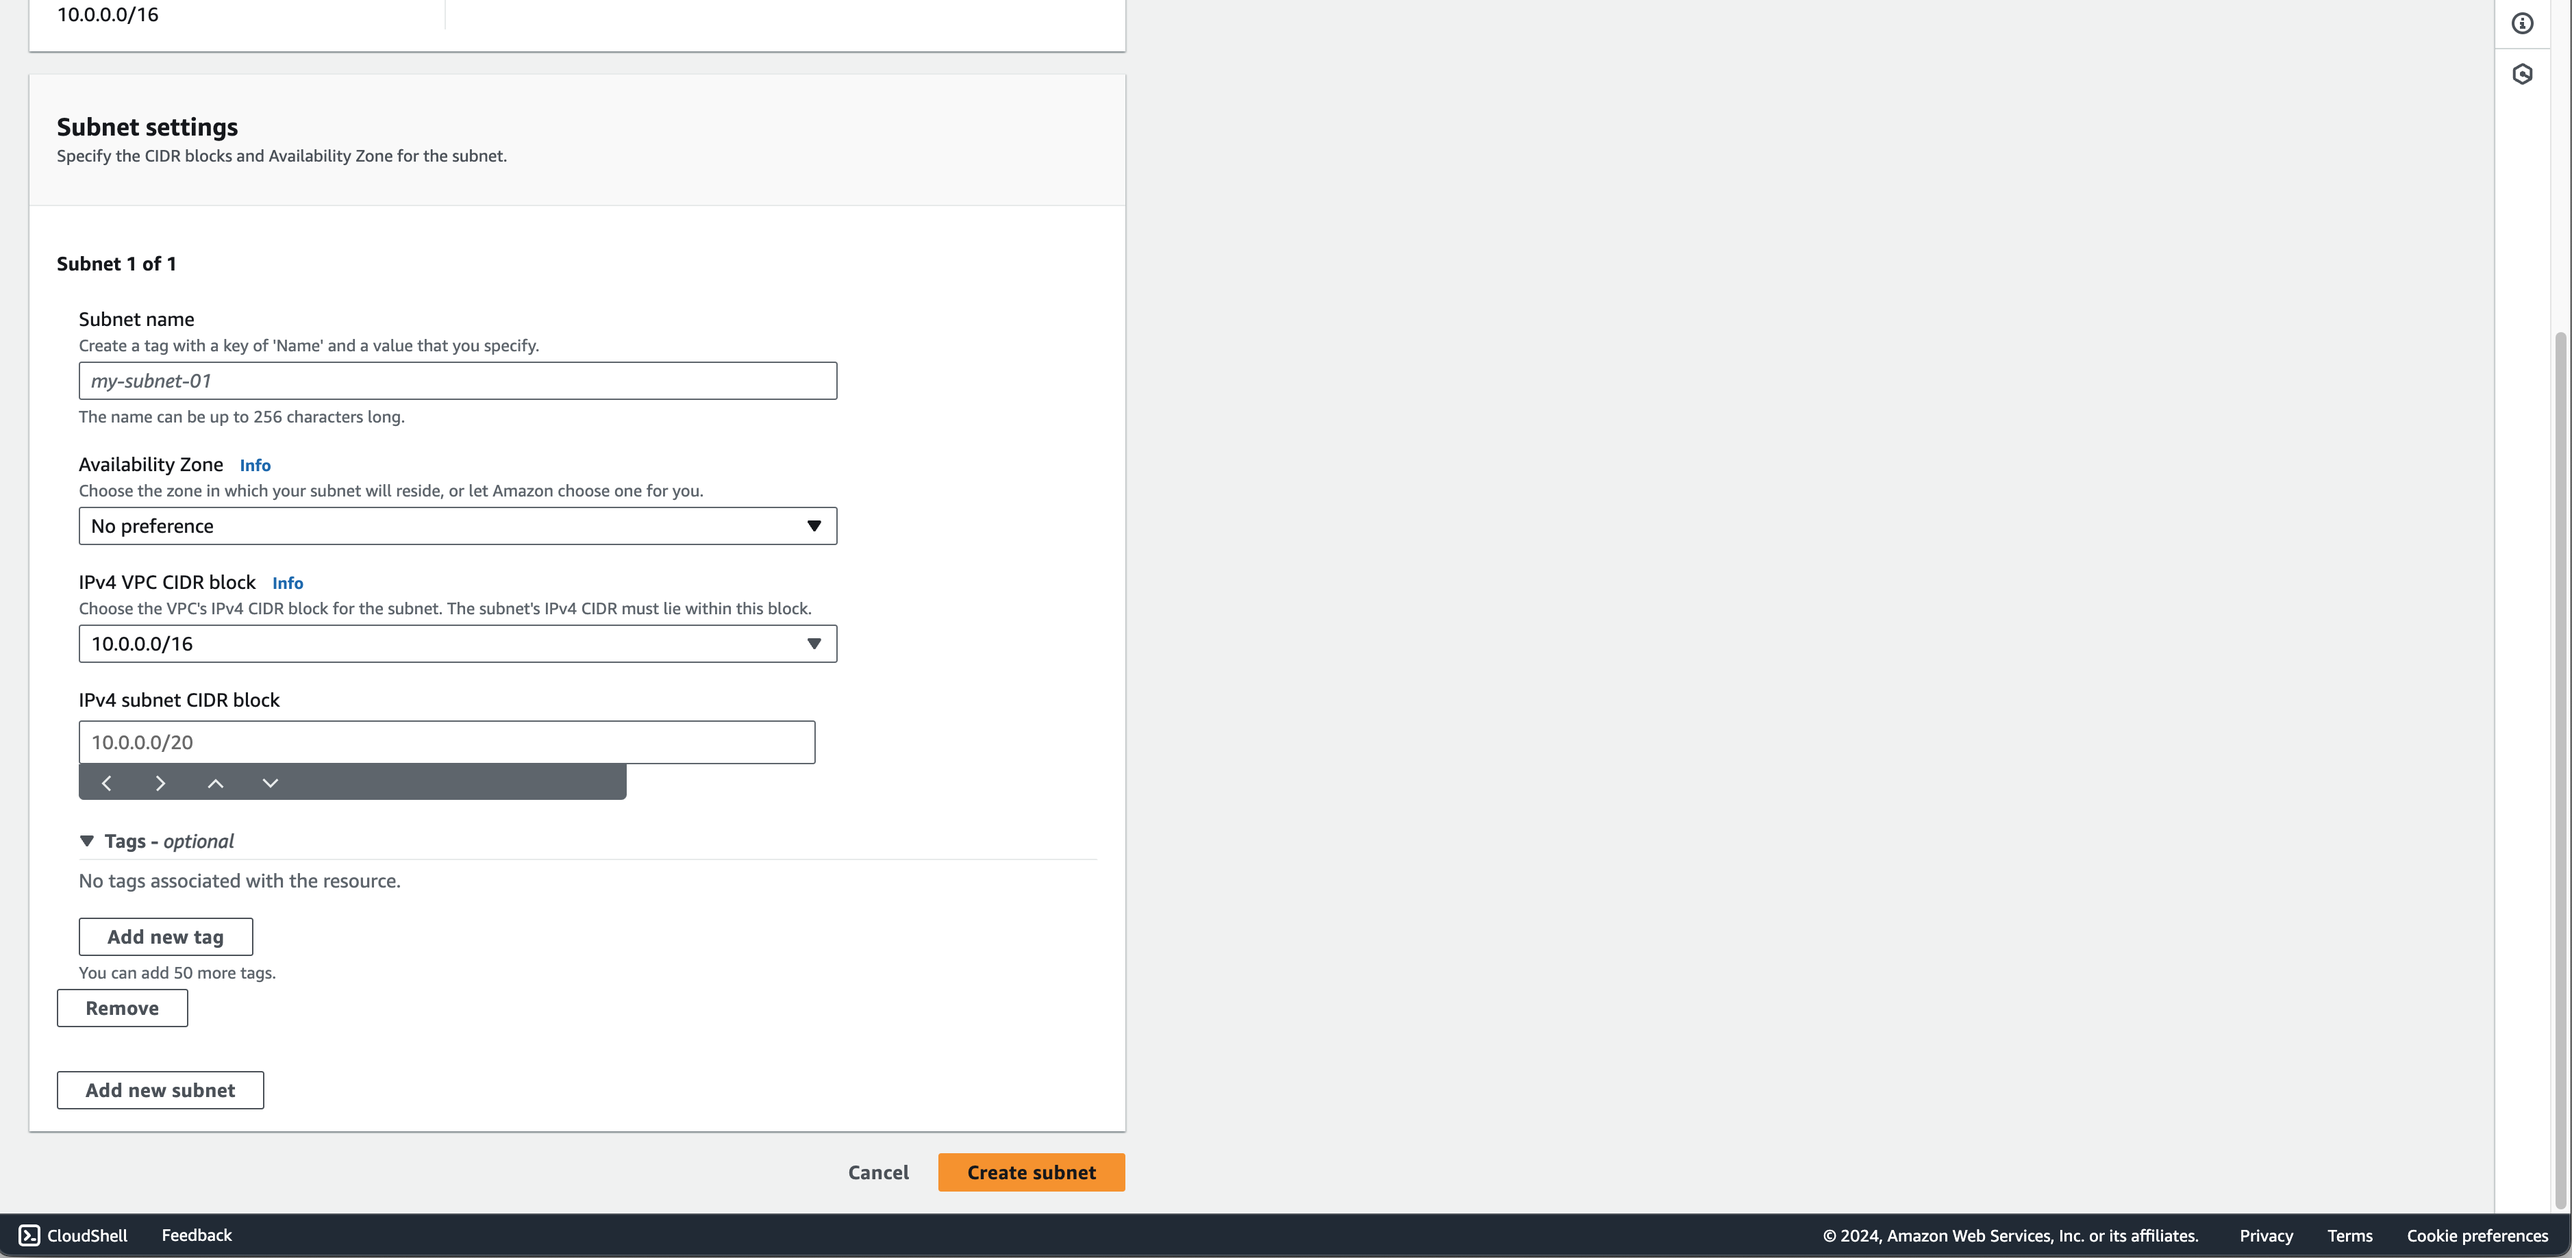
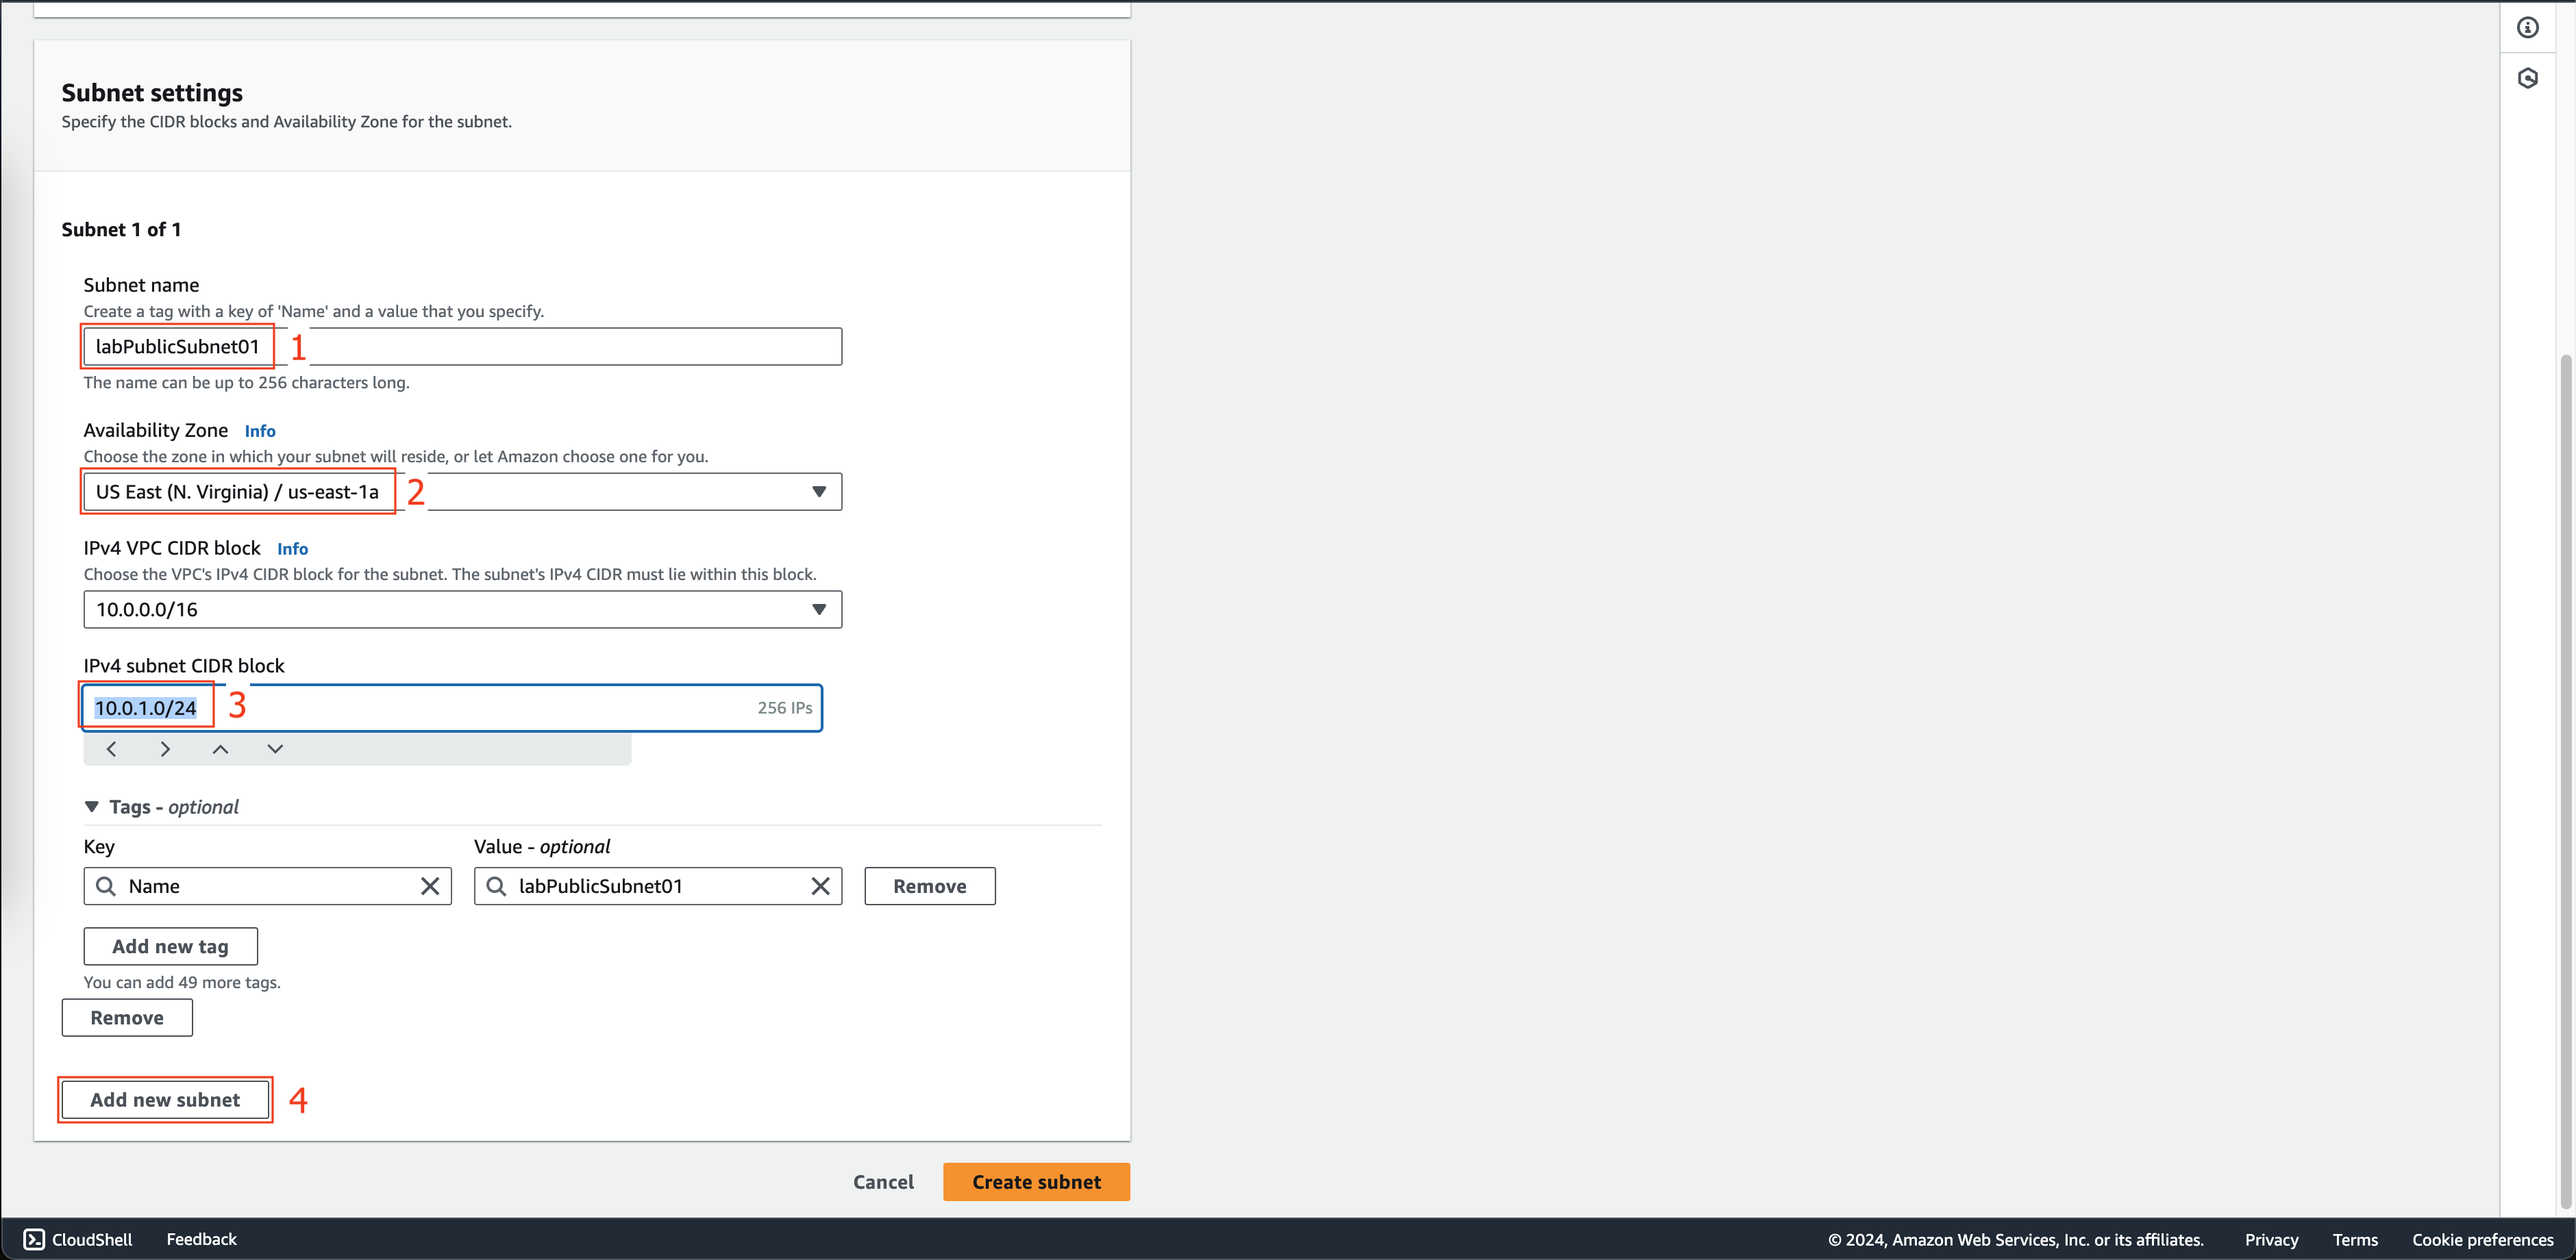
Add step igw

diff --git a/content/2-Prerequiste/2.1-createec2/2.1.2-createpublicsubnet/_index.md b/content/2-Prerequiste/2.1-createec2/2.1.2-createpublicsubnet/_index.md
@@ -10,29 +10,42 @@ pre : " <b> 2.1.2 </b> "
 
 1. Click **Subnets**.
   + Click **Create subnet**.
-
-![VPC](/images/2.prerequisite/ws01-createvpc03.png)
+  ![VPC](/images/2.prerequisite/ws01-createvpc03.png)
 
 2. At the **Create subnet** page.
-  + In the **VPC ID** section, click **Lab VPC**.
-  + In the **Subnet name** field, enter **Lab Public Subnet**.
-  + In the **Availability Zone** section, select the first Availability zone.
-  + In the field **IPv4 CIRD block** enter **10.10.1.0/24**.
+  + In the **VPC ID** section, click **labVPC01**.
+  ![VPC](/images/2.prerequisite/ws01-createvpc04.png)
 
-![VPC](/images/2.prerequisite/004-createsubnet.png)
+3. At the **Subnet settings** section.
+  - At the **Subnet 1 of 1** section.
+    + In the **Subnet name** field, enter **labPublicSubnet01**.
+    + In the **Availability Zone** section, select the **US EAST (N. Virginia) / us-east-1a**.
+    + In the field **IPv4 CIDR block** enter **10.0.1.0/24**.
+    + Click **Add new subnet**.
+    ![VPC](/images/2.prerequisite/ws01-createvpc05.png)
 
-3. Scroll to the bottom of the page, click **Create subnet**.
+  - At the **Subnet 2 of 2** section.
+    + In the **Subnet name** field, enter **labPublicSubnet02**.
+    + In the **Availability Zone** section, select the **US EAST (N. Virginia) / us-east-1b**.
+    + In the field **IPv4 CIDR block** enter **10.0.2.0/24**.
+    + Click **Add new subnet**.
+    ![VPC](/images/2.prerequisite/ws01-createvpc06.png)
 
-4. Click **Lab Public Subnet**.
+  - At the **Subnet 3 of 3** section.
+    + In the **Subnet name** field, enter **labPublicSubnet03**.
+    + In the **Availability Zone** section, select the **US EAST (N. Virginia) / us-east-1c**.
+    + In the field **IPv4 CIDR block** enter **10.0.3.0/24**.
+    + Click **Create subnet**.
+    ![VPC](/images/2.prerequisite/ws01-createvpc07.png)
+
+4. Click **labPublicSubnet01**.
   + Click **Actions**.
   + Click **Edit subnet settings**.
-
-![VPC](/images/2.prerequisite/005-createsubnet.png)
+  ![VPC](/images/2.prerequisite/ws01-createvpc08.png)
 
 5. Click **Enable auto-assign public IPv4 address**.
   + Click **Save**.
-
-![VPC](/images/2.prerequisite/006-createsubnet.png)
+  ![VPC](/images/2.prerequisite/ws01-createvpc09.png)
 
 6. Click **Internet Gateways**.
   + Click **Create internet gateway**.
